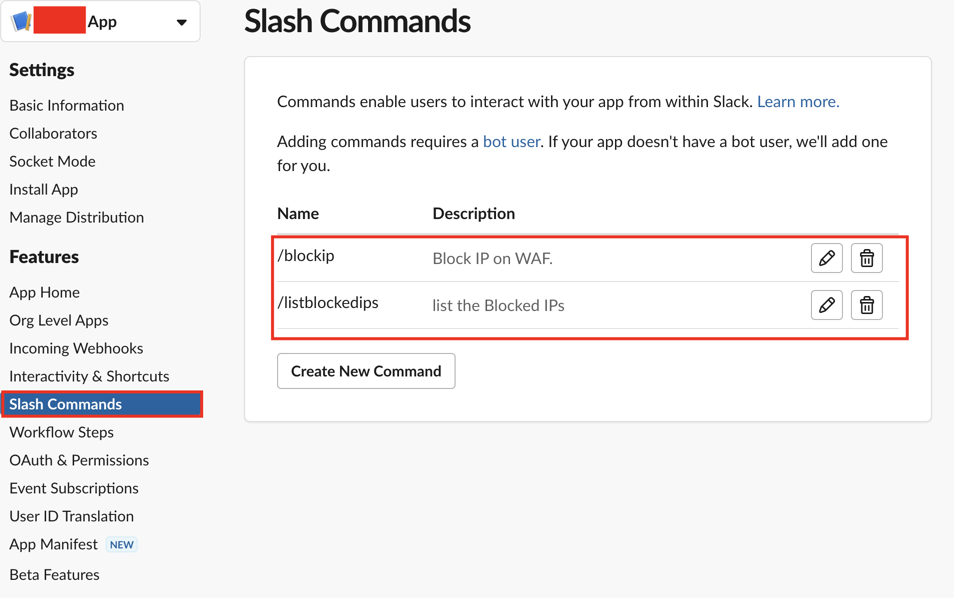
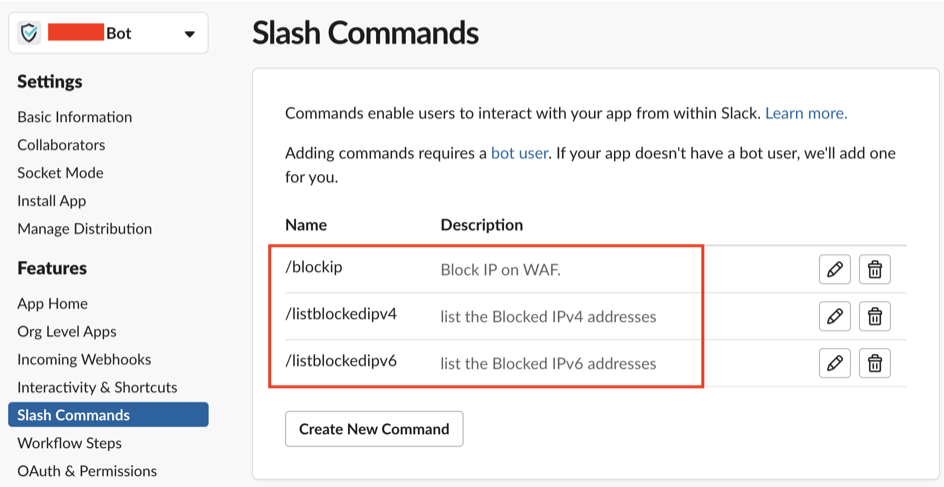
updated readme

diff --git a/README.md b/README.md
@@ -1,25 +1,26 @@
 ## Description
 
-This repository contains a Python Flask application that enables integration between AWS WAF (Web Application Firewall) and Slack. The application utilizes the slack's `Slash Command` feature to to interact with the application and uses `boto3` moudle to interact with AWS services (here WAF & Shields).
+This project integrates AWS WAF (Web Application Firewall) with Slack, enabling real-time access to WAF IP Sets and adding an IPv4/IPv6 to a given IP Sets. This integration facilitates immediate awareness and response to potential security threats, enhancing your web application's security posture by utilizes the slack's `Slash Command` feature to to interact with the back-end application and uses `boto3` to interact with AWS WAF.
 
 ## Features
 
 - Block IPs directly from Slack using a slash command. This eliminates the need to access the AWS WAF console manually.
  
-- Easily view the list of blacklisted IPs within Slack.
-- IPs can be blocked with an expiration time. For example, by using the slash command `/blockip 162.247.74.206/32 0 0 0 60` in your Slack channel, the IP `162.247.74.206` will be blocked for 60 seconds. Once the time expires, the IP will be automatically removed from AWS WAF.
+- Easily view the list of blacklisted IPs(as per your requirement) within Slack itself.
+- IPs can be blocked with an expiration time. 
+For example, by using the slash command `/blockip 162.247.74.206/32 0 0 0 60` in your Slack channel, the IP `162.247.74.206` will be blocked for 60 seconds. Once the time expires, the IP will be automatically removed from AWS WAF.
 
 ## Slash Command Format: 
 The slash command should be provided in the following format:
 ```
- `/blockip [IPv4inCIDR] [Days] [Hours] [Minutes] [Seconds]`
+ `/blockip [IPv4inCIDR or IPv6inCIDR] [Days] [Hours] [Minutes] [Seconds]`
   /listblockedips 
 ```
-eg: If you want to block an IP for a day.
+eg: If you want to block an IPv4 for a day.
 - `/blockip 162.247.74.206/32 1 0 0 0 `
 
-If you want to block an IP for 6 hours.
-- `/blockip 162.247.74.206/32 0 6 0 0 `
+If you want to block an IPv6 for 6 hours.
+- `/blockip 2606:54c0:7680:d28::1d3:53/128 0 6 0 0 `
 
 ## Prerequisites
 Before using the application, ensure you have the following:
@@ -27,7 +28,7 @@ Before using the application, ensure you have the following:
 - AWS account with read and write access to AWS WAF. 
 - AWS cli setup.
 - Slack workspace with administrative access. 
-- Need `Slack Token` and one `webhook url`.
+- Need a `Slack webhook url`.
 - Python 3.x installed on your local machine.
 
 ## Initial setup
@@ -35,7 +36,7 @@ To set up and use the AWS WAF Slack Integration, follow these steps:
 
 1. Clone this repository to your local machine using the following command:
 ```
-git clone https://github.com/abhiunix/YourChannelName_slack_integration.git & cd YourChannelName_slack_integration & touch .env
+git clone https://github.com/abhiunix/aws_waf_slack_integration.git & cd aws_waf_slack_integration & touch .env
 
 ```
 2.  Install the required Python packages by running the following command:
@@ -44,8 +45,7 @@ pip3 install -r requirements.txt
 ```
 3. Configure the AWS credentials on your local machine, either by configuring the AWS CLI or by setting the `aws_access_key_id` and `aws_secret_access_key` environment variables.
 
-4. Create a Slack app and obtain the Slack API token(App-Level Tokens).
-![](images/SlackToken.png)
+
 5. Create a incoming webhooks url for your channel.
 ![](images/incomingWebhooks.png)
 
@@ -63,9 +63,9 @@ webhook_url=https://hooks.slack.com/services/abc/xyz
 ```
 python3 app.py
 ```
-10. In your Slack, you have to goto the same channel for which you created the webhook and enter the command `/listblockedips` e.g:
+10. In your Slack, you have to goto the same channel for which you created the webhook and enter the command `/listblockedipv4` e.g:
 ```
- /listblockedips 
+ /listblockedipv4 
 ```
 11. Now you will notice that you're getting some `json data` in your console, where you have run the app and in your slack channel you'll see `You are not authorized to perform this actions.`
 Now from the data you obtained from the console, you're supposed to change the `user_name`, `team_domain`, and `channel_name` value in line number `32` and `54` (in app.py file)
@@ -78,7 +78,8 @@ After all those steps, you're ready to go.
 You can now use the defined slash commands in Slack to block and list IPs.
 
 ## Upcoming Features
-- IPv6 Support: Support for blocking and managing IPv6 addresses in addition to IPv4.
+- [x] IPv6 Support: Support for blocking and managing IPv6 addresses in addition to IPv4.
+- [ ] Anomaly detection.
 
 ## Contributing
 Contributions to this repository are welcome! If you encounter any issues or have suggestions for improvements, please open an issue or submit a pull request.
